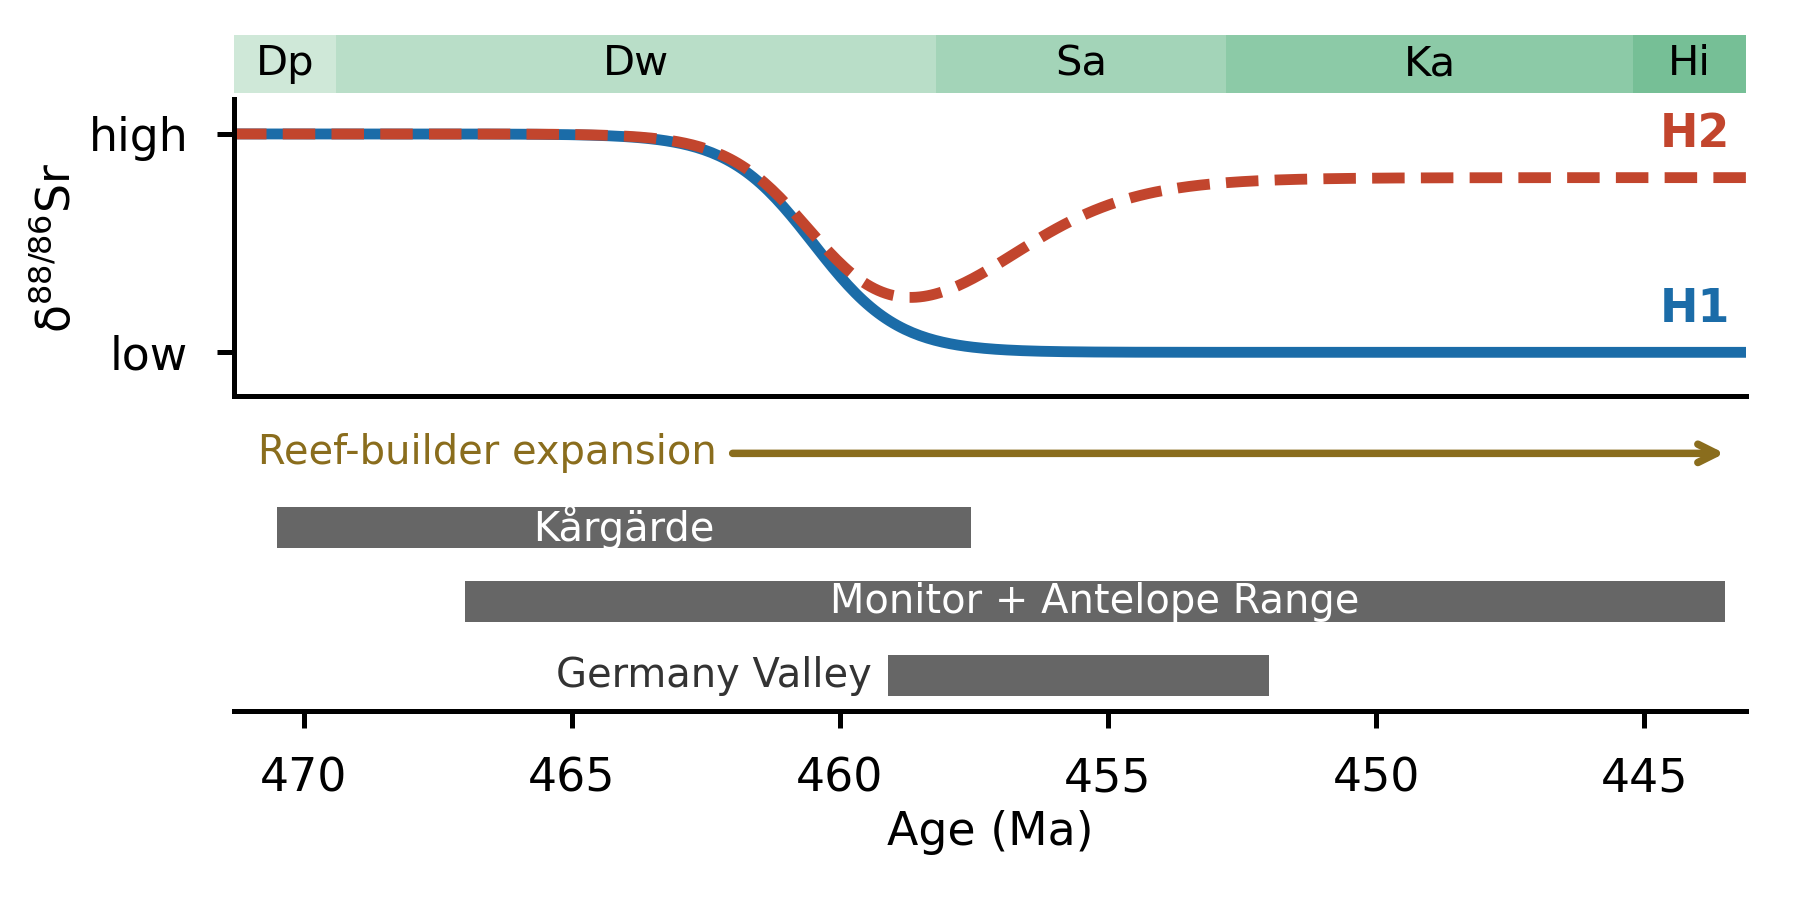
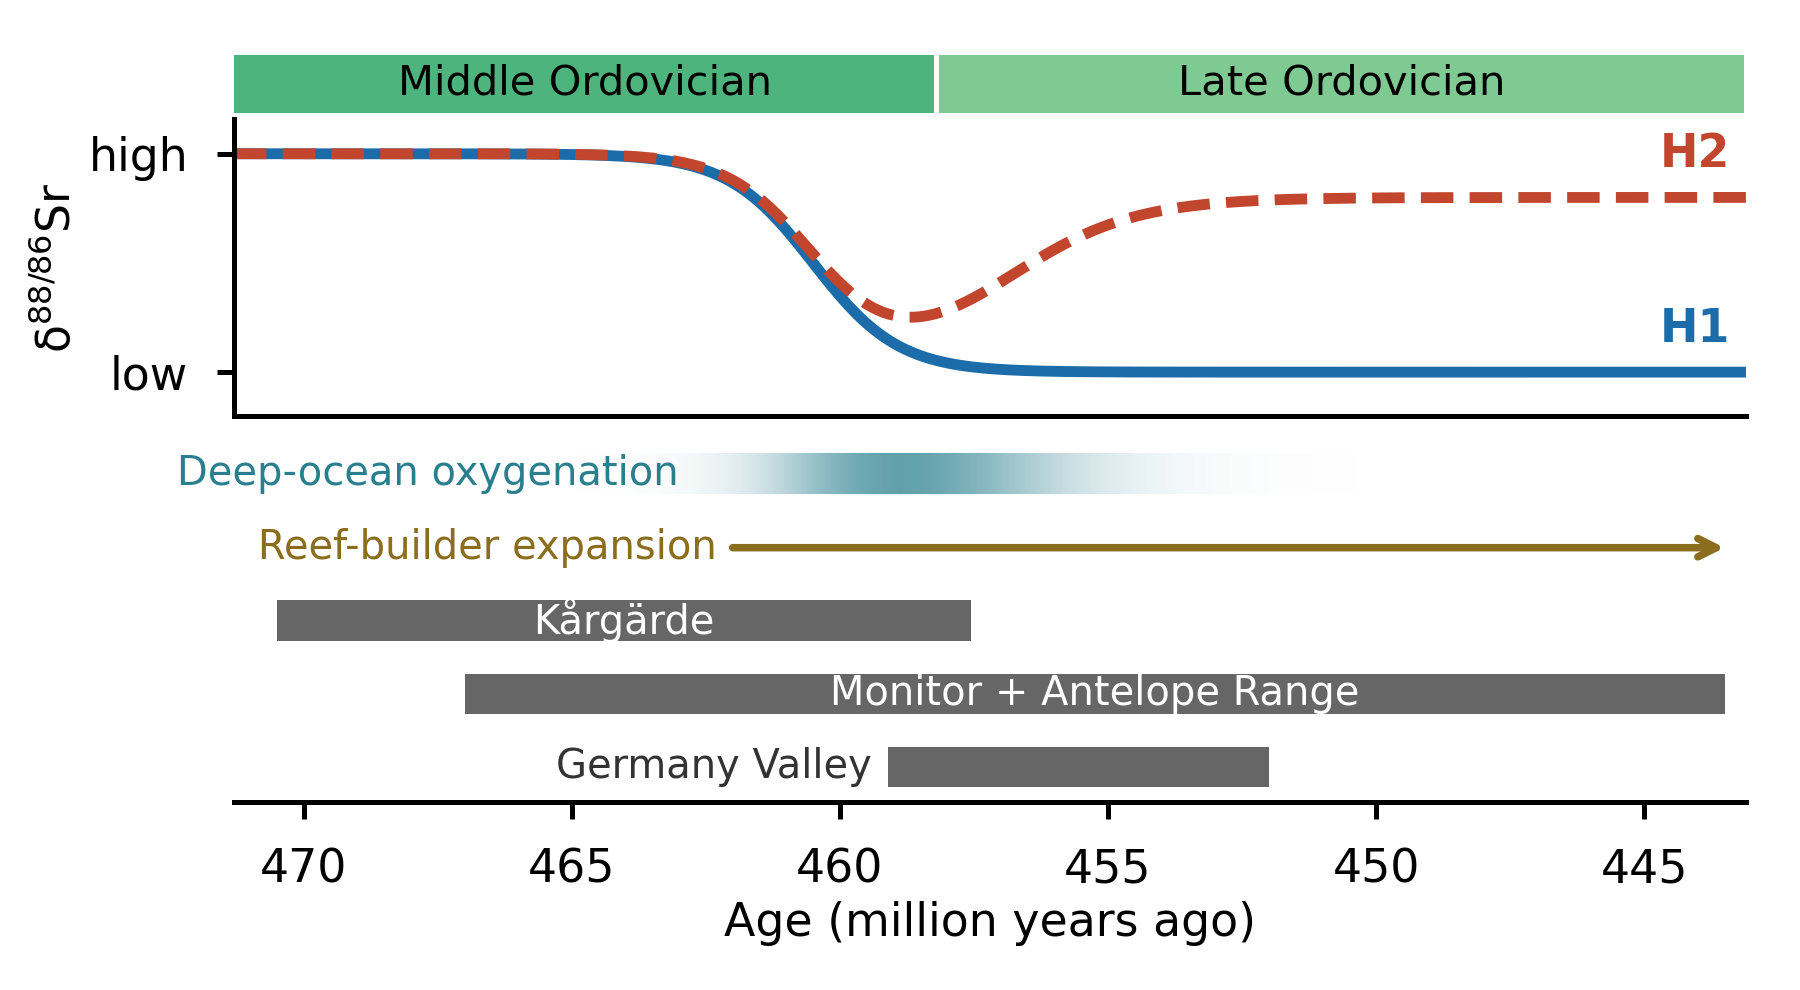
modify fig 2, change chronostrat label, add oxygen bar

diff --git a/fig_2/outcome.py b/fig_2/outcome.py
@@ -1,10 +1,12 @@
 import numpy as np, matplotlib.pyplot as plt
 from matplotlib.patches import Rectangle
+from matplotlib.colors import LinearSegmentedColormap
 plt.rcParams.update({"font.size":5.5,"axes.linewidth":0.6,"xtick.major.width":0.6,
                      "ytick.major.width":0.6,"xtick.major.size":2,"ytick.major.size":2})
 
-STAGES=[("Dp",471.3,469.4),("Dw",469.4,458.2),("Sa",458.2,452.8),("Ka",452.8,445.2),("Hi",445.2,443.1)]
-STAGE_COL=["#cfe8d8","#b9dec8","#a3d4b8","#8ccaa7","#76bf96"]
+# Epochs (GTS2020); colors from the ICS chart
+STAGES=[("Middle Ordovician",471.3,458.2),("Late Ordovician",458.2,443.1)]
+STAGE_COL=["#4DB47E","#7FCA93"]
 SECTIONS=[("Kårgärde",470.5,457.56),
           ("Monitor + Antelope Range",467.0,443.5),
           ("Germany Valley",459.1,452.0)]
@@ -17,8 +19,8 @@ reb=1/(1+np.exp((t-T_REBOUND)/1.2))
 h1=1-0.75*drop
 h2=h1+0.6*reb
 
-fig=plt.figure(figsize=(3.0,1.5))
-ax=fig.add_axes([0.13,0.56,0.84,0.33]); ax2=fig.add_axes([0.13,0.21,0.84,0.33],sharex=ax)
+fig=plt.figure(figsize=(3.0,1.65))
+ax=fig.add_axes([0.13,0.58,0.84,0.30]); ax2=fig.add_axes([0.13,0.19,0.84,0.37],sharex=ax)
 ax.plot(t,h1,color="#1b6ca8",lw=1.3); ax.plot(t,h2,color="#c2452d",lw=1.3,ls=(0,(3,1.5)))
 ax.text(443.4,h1[-1]+0.07,"H1",color="#1b6ca8",ha="right",va="bottom",fontweight="bold")
 ax.text(443.4,h2[-1]+0.07,"H2",color="#c2452d",ha="right",va="bottom",fontweight="bold")
@@ -29,6 +31,7 @@ ax.tick_params(axis="x",length=0,labelbottom=False)
 for (n,o,y),c in zip(STAGES,STAGE_COL):
     ax.add_patch(Rectangle((y,1.14),o-y,0.2,color=c,lw=0,clip_on=False))
     ax.text((o+y)/2,1.24,n,ha="center",va="center",fontsize=5)
+    ax.plot([y,y],[1.14,1.34],color="white",lw=0.6,clip_on=False)
 
 y=0
 for name,a,b in SECTIONS[::-1]:
@@ -40,9 +43,15 @@ for name,a,b in SECTIONS[::-1]:
 a,b,lab=REEF
 ax2.annotate("",xy=(b,y+0.47),xytext=(a,y+0.47),arrowprops=dict(arrowstyle="->",color="#8a6d1d",lw=0.9,shrinkA=0,shrinkB=0))
 ax2.text(a+0.3,y+0.47,lab,va="center",ha="right",color="#8a6d1d",fontsize=4.8)
+y+=1
+
+# Deep-ocean oxygenation: same timing that drives H2 (rise with the drop, fade at the rebound)
+oxy=drop*(1-reb)
+cmap=LinearSegmentedColormap.from_list("oxy",["#ffffff","#2a7f8f"])
+ax2.imshow(oxy[None,:],extent=(t[0],t[-1],y+0.2,y+0.75),aspect="auto",cmap=cmap,vmin=0,vmax=1,interpolation="bilinear")
+ax2.text(463.0,y+0.47,"Deep-ocean oxygenation",va="center",ha="right",color="#2a7f8f",fontsize=4.8)
 ax2.set_ylim(0,y+1); ax2.set_yticks([])
 for s in ["top","right","left"]: ax2.spines[s].set_visible(False)
 ax2.set_xlim(471.3,443.1); ax2.set_xticks([470,465,460,455,450,445])
-ax2.set_xlabel("Age (Ma)",labelpad=1)
+ax2.set_xlabel("Age (million years ago)",labelpad=1)
 fig.savefig("fig2_outcome.png",dpi=600)
-plt.show()
